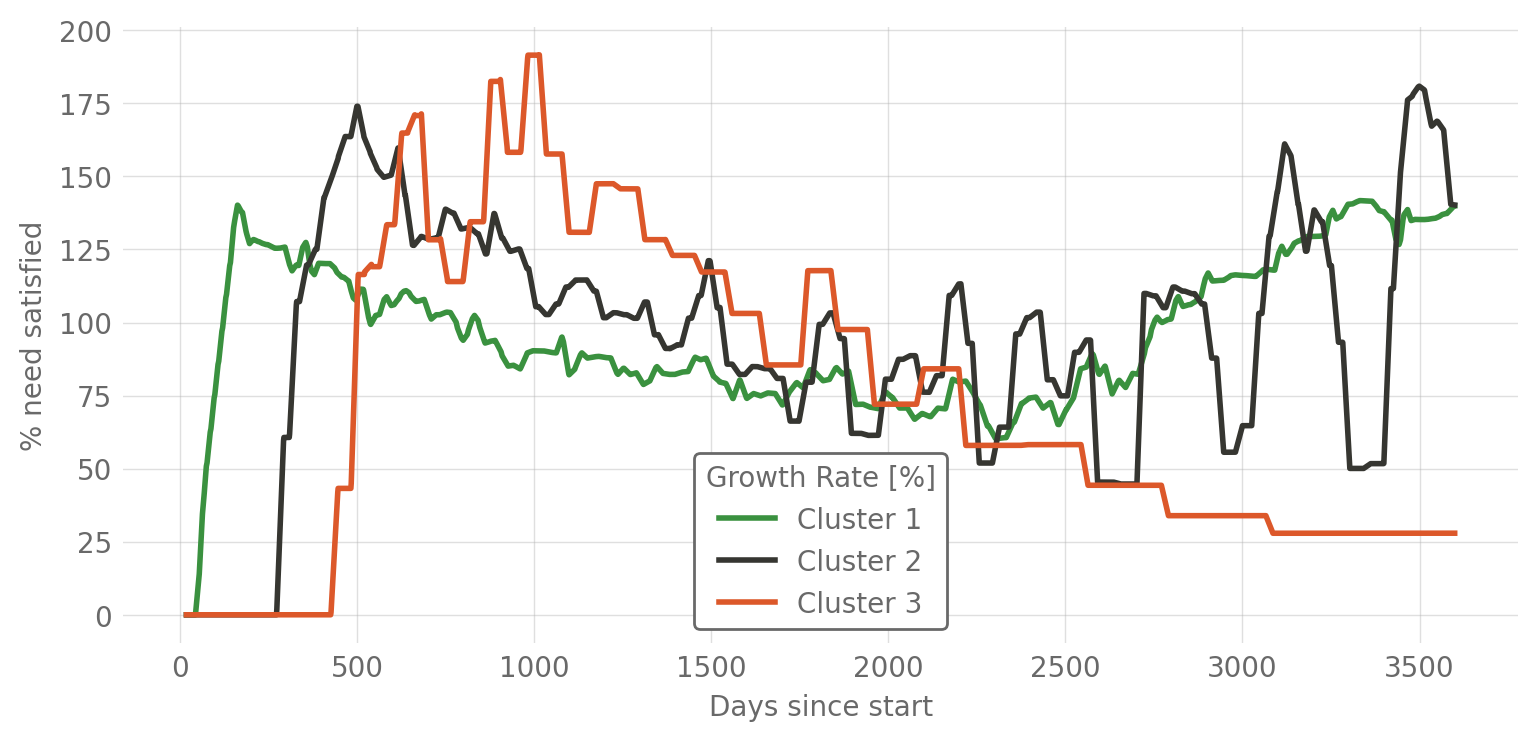
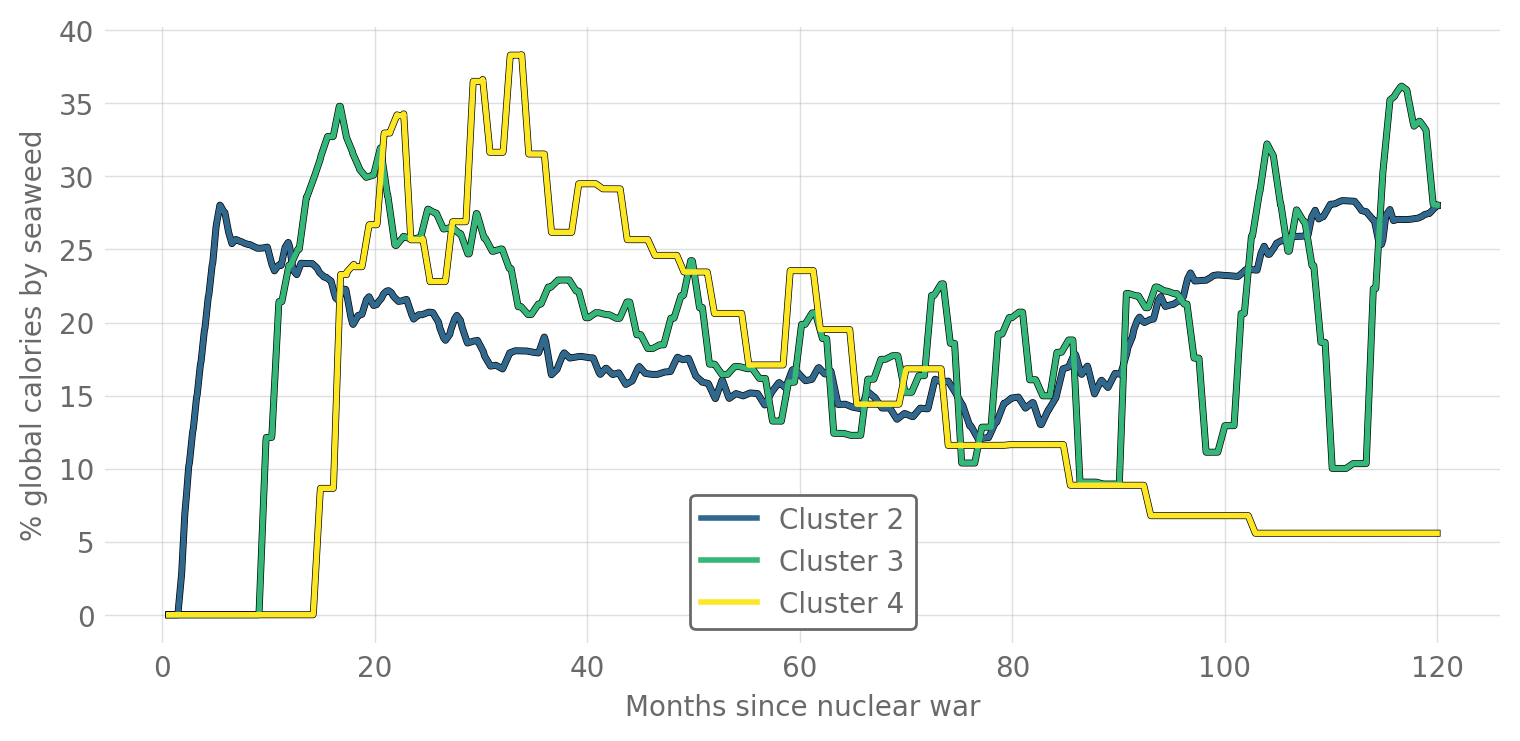
updated pltos

diff --git a/src/plotter.py b/src/plotter.py
@@ -13,8 +13,9 @@ def plot_satisfaction_results(cluster_df):
     satisfied_need_df = pd.DataFrame()
     # Iterate over all growth rate results and plot them
     for cluster, cluster_df in clusters.items():
-        food = cluster_df.loc[:, ["harvest_for_food", "harvest_intervall",
-        "seaweed_needed_per_day"]]
+        food = cluster_df.loc[:, [
+            "harvest_for_food", "harvest_intervall",
+            "seaweed_needed_per_day"]]
         # backfill to calulcate averages
         food["harvest_for_food"].interpolate(
             "zero", fill_value=0, limit_direction="backward", inplace=True
@@ -29,14 +30,17 @@ def plot_satisfaction_results(cluster_df):
         food["daily_need_satisfied"] = (
             food["mean_daily_harvest"] / food["daily_need"]
         ) * 100
-        satisfied_need_df["Cluster " + str(cluster)] = food["daily_need_satisfied"].rolling(20).mean()
+        daily_need_satisfied = food["daily_need_satisfied"].rolling(20).mean()
+        # Convert back to the 20 % of the need 
+        daily_need_satisfied = (daily_need_satisfied / 100) * 20
+        satisfied_need_df["Cluster " + str(cluster+1)] = daily_need_satisfied
         counter += 1
 
-    ax = satisfied_need_df.plot()
-    legend = ax.legend()
-    legend.set_title("Growth Rate [%]")
-    ax.set_xlabel("Days since start")
-    ax.set_ylabel("% need satisfied")
+    satisfied_need_df.index = satisfied_need_df.index / 30
+    ax = satisfied_need_df.plot(color="black", linewidth= 2.5, legend=False)
+    ax = satisfied_need_df.plot(color=["#31688e", "#35b779", "#fde725"], linewidth=2, ax=ax)
+    ax.set_xlabel("Months since nuclear war")
+    ax.set_ylabel("% global calories by seaweed")
     fig = plt.gcf()
     fig.set_size_inches(9, 4)
     plt.savefig("results/food_satisfaction.png", dpi=200, bbox_inches="tight")
